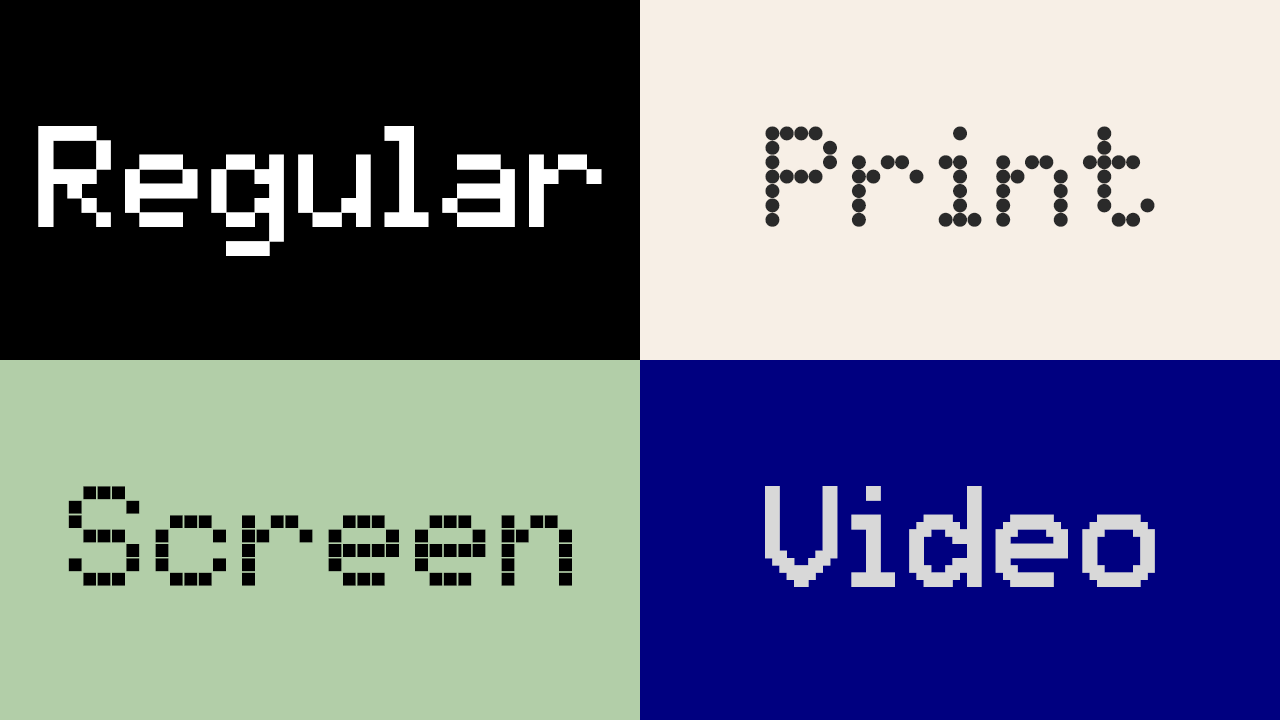
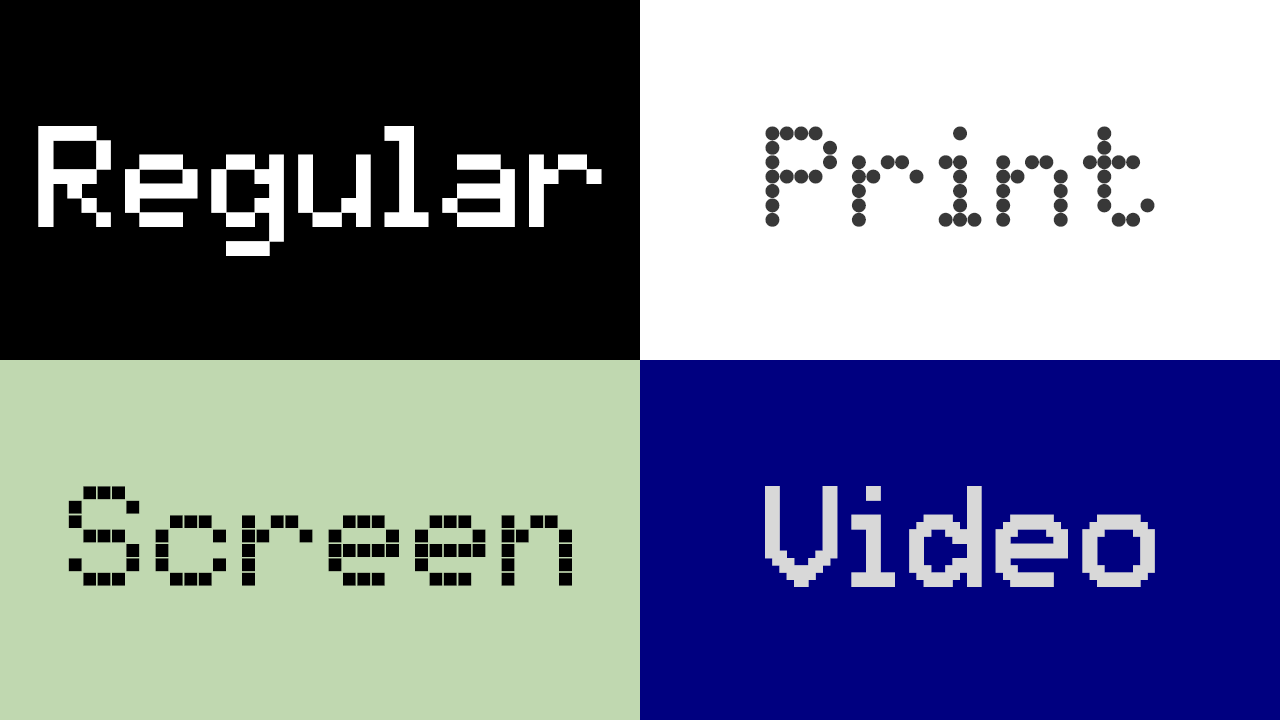
Generate new sample images

Changed region(s): [[0.5, 0.0, 1.0, 0.5194]]

diff --git a/documentation/image2.py b/documentation/image2.py
@@ -1,0 +1,155 @@
+# This script is meant to be run from the root level
+# of your font's git repository. For example, from a Unix terminal:
+# $ git clone my-font
+# $ cd my-font
+# $ python3 documentation/image1.py --output documentation/image1.png
+
+# Import moduels from external python packages: https://pypi.org/
+from drawbot_skia.drawbot import *
+from fontTools.ttLib import TTFont
+from fontTools.misc.fixedTools import floatToFixedToStr
+
+# Import moduels from the Python Standard Library: https://docs.python.org/3/library/
+import subprocess
+import sys
+import argparse
+
+# Constants, these are the main "settings" for the image
+WIDTH, HEIGHT, MARGIN, FRAMES = 960, 960, 64, 1
+FONT_PATH = "fonts/otf/LibreDotMatrix-Regular.otf"
+FONT_LICENSE = "OFL v1.1"
+AUXILIARY_FONT = "Open Sans"
+AUXILIARY_FONT_SIZE = 22
+BIG_TEXT = "Aa"
+BIG_TEXT_FONT_SIZE = 80
+BIG_TEXT_SIDE_MARGIN = WIDTH // 2
+BIG_TEXT_BOTTOM_MARGIN = MARGIN * 3.5
+BIG_TEXT_INTERLINE = MARGIN * 1.5
+GRID_VIEW = False # Change this to "True" for a grid overlay
+
+# Handel the "--output" flag
+# For example: $ python3 documentation/image1.py --output documentation/image1.png
+parser = argparse.ArgumentParser()
+parser.add_argument("--output", metavar="PNG", help="where to write the PNG file")
+args = parser.parse_args()
+
+
+
+# Constants that are worked out dynamically
+MY_URL = subprocess.check_output("git remote get-url origin", shell=True).decode()
+MY_HASH = subprocess.check_output("git rev-parse --short HEAD", shell=True).decode()
+
+
+
+# Draws a grid
+def grid():
+	stroke(1, 0, 0, 0.75)
+	strokeWidth(2)
+	STEP_X, STEP_Y = 0, 0
+	INCREMENT_X, INCREMENT_Y = MARGIN / 2, MARGIN / 2
+	rect(MARGIN, MARGIN, WIDTH - (MARGIN * 2), HEIGHT - (MARGIN * 2))
+	for x in range(29):
+		polygon((MARGIN + STEP_X, MARGIN), (MARGIN + STEP_X, HEIGHT - MARGIN))
+		STEP_X += INCREMENT_X
+	for y in range(29):
+		polygon((MARGIN, MARGIN + STEP_Y), (WIDTH - MARGIN, MARGIN + STEP_Y))
+		STEP_Y += INCREMENT_Y
+	polygon((WIDTH / 2, 0), (WIDTH / 2, HEIGHT))
+	polygon((0, HEIGHT / 2), (WIDTH, HEIGHT / 2))
+
+
+# Remap input range to VF axis range
+# This is useful for animation
+# (E.g. sinewave(-1,1) to wght(100,900))
+def remap(value, inputMin, inputMax, outputMin, outputMax):
+	inputSpan = inputMax - inputMin  # FIND INPUT RANGE SPAN
+	outputSpan = outputMax - outputMin  # FIND OUTPUT RANGE SPAN
+	valueScaled = float(value - inputMin) / float(inputSpan)
+	return outputMin + (valueScaled * outputSpan)
+
+
+# Draw the page/frame and a grid if "GRID_VIEW" is set to "True"
+def draw_background():
+	newPage(WIDTH, HEIGHT)
+	fill(1)
+	rect(-2, -2, WIDTH + 2, HEIGHT + 2)
+	if GRID_VIEW:
+		grid()
+	else:
+		pass
+
+
+# Draw main text
+def draw_main_text():
+	fill(0)
+	stroke(None)
+	font(FONT_PATH)
+	fontSize(BIG_TEXT_FONT_SIZE)
+	# Adjust this line to center main text manually.
+	# TODO: This should be done automatically when drawbot-skia
+	# has support for textBox() and FormattedString
+	#text(BIG_TEXT, ((WIDTH / 2) - MARGIN * 4.75, (HEIGHT / 2) - MARGIN * 2.5))
+	text("ABCDEFGHIJKLM", (BIG_TEXT_SIDE_MARGIN, BIG_TEXT_BOTTOM_MARGIN + BIG_TEXT_INTERLINE*5), "center")
+	text("NOPQRSTUVWXYZ", (BIG_TEXT_SIDE_MARGIN, BIG_TEXT_BOTTOM_MARGIN + BIG_TEXT_INTERLINE*4), "center")
+	text("abcdefghijklm", (BIG_TEXT_SIDE_MARGIN, BIG_TEXT_BOTTOM_MARGIN + BIG_TEXT_INTERLINE*3), "center")
+	text("nopqrstuvwxyz", (BIG_TEXT_SIDE_MARGIN, BIG_TEXT_BOTTOM_MARGIN + BIG_TEXT_INTERLINE*2), "center")
+	text("0123456789,.!?-/", (BIG_TEXT_SIDE_MARGIN, BIG_TEXT_BOTTOM_MARGIN + BIG_TEXT_INTERLINE*1), "center")
+	text("`~@#$%^&*()[]{}", (BIG_TEXT_SIDE_MARGIN, BIG_TEXT_BOTTOM_MARGIN), "center")
+
+# Divider lines
+def draw_divider_lines():
+	stroke(0.5)
+	strokeWidth(2)
+	lineCap("round")
+	line((MARGIN, HEIGHT - MARGIN), (WIDTH - MARGIN, HEIGHT - MARGIN))
+	line((MARGIN, MARGIN + (MARGIN / 2)), (WIDTH - MARGIN, MARGIN + (MARGIN / 2)))
+	stroke(None)
+
+
+# Draw text describing the font and it's git status & repo URL
+def draw_auxiliary_text():
+	# Load the font with the parts of fonttools that are imported with the line:
+	# from fontTools.ttLib import TTFont
+	# Docs Link: https://fonttools.readthedocs.io/en/latest/ttLib/ttFont.html
+	ttFont = TTFont(FONT_PATH)
+	# FONT_NAME = ttFont["name"].getDebugName(4)
+	FONT_NAME = ttFont["name"].getBestFamilyName()
+	FONT_VERSION = "v%s" % floatToFixedToStr(ttFont["head"].fontRevision, 16)
+	# Setup
+	fill(0.5)
+	font(AUXILIARY_FONT)
+	fontSize(AUXILIARY_FONT_SIZE)
+	POS_TOP_LEFT = (MARGIN, HEIGHT - MARGIN * 1.5)
+	POS_TOP_RIGHT = (WIDTH - MARGIN, HEIGHT - MARGIN * 1.5)
+	POS_BOTTOM_LEFT = (MARGIN, MARGIN)
+	POS_BOTTOM_RIGHT = (WIDTH - MARGIN * 0.95, MARGIN)
+	URL_AND_HASH = MY_URL + "at commit " + MY_HASH
+	URL_AND_HASH = URL_AND_HASH.replace("\n", " ")
+	# Draw Text
+	text(FONT_NAME, POS_TOP_LEFT, align="left")
+	text(FONT_VERSION, POS_TOP_RIGHT, align="right")
+	text(URL_AND_HASH, POS_BOTTOM_LEFT, align="left")
+	text(FONT_LICENSE, POS_BOTTOM_RIGHT, align="right")
+
+
+def make_image():
+	draw_background()
+	draw_main_text()
+	draw_divider_lines()
+	draw_auxiliary_text()
+
+# Build and save the image
+if __name__ == "__main__":
+	FONT_PATH = "fonts/otf/LibreDotMatrix-Regular.otf"
+	make_image()
+	FONT_PATH = "fonts/otf/LibreDotMatrixPrint-Regular.otf"
+	make_image()
+	FONT_PATH = "fonts/otf/LibreDotMatrixScreen-Regular.otf"
+	make_image()
+	FONT_PATH = "fonts/otf/LibreDotMatrixVideo-Regular.otf"
+	make_image()
+	# Save output, using the "--output" flag location
+	saveImage("documentation/sample.png")
+	# Print done in the terminal
+	print("DrawBot: Done")
+	

diff --git a/documentation/image1.py b/documentation/image1.py
@@ -78,9 +78,9 @@ def draw_background():
     # rect(-2, -2, WIDTH + 2, HEIGHT + 2)
     fill(0)
     rect(0, HEIGHT // 2, WIDTH // 2, HEIGHT // 2)
-    fill(247/255, 239/255, 230/255)
+    fill(1)
     rect(WIDTH // 2, HEIGHT // 2, WIDTH // 2, HEIGHT // 2)
-    fill(178/255, 206/255, 168/255)
+    fill(192/255, 216/255, 176/255)
     rect(0, 0, WIDTH // 2, HEIGHT // 2)
     fill(0, 0, 128/255)
     rect(WIDTH // 2, 0, WIDTH // 2, HEIGHT // 2)
@@ -107,7 +107,7 @@ def draw_main_text():
     fill(1)
     text("Regular", (BIG_TEXT_SIDE_MARGIN, BIG_TEXT_BOTTOM_MARGIN + HEIGHT // 2), align="center")
     font("fonts/otf/LibreDotMatrixPrint-Regular.otf")
-    fill(40/240)
+    fill(56/255)
     text("Print", (BIG_TEXT_SIDE_MARGIN + WIDTH // 2, BIG_TEXT_BOTTOM_MARGIN + HEIGHT // 2), align="center")
     font("fonts/otf/LibreDotMatrixScreen-Regular.otf")
     fill(0)

diff --git a/README.md b/README.md
@@ -19,7 +19,11 @@ This is set of pixelated, retro-style fonts based on the classic 5&times;7 dot m
 - **Screen** is a similar effect to Print, but uses square dots instead. It matches the look of the "character LCDs" seen in many devices, as well as some light-up LED displays.
 - **Video** is an interpolated version of Regular. It resembles the on-screen displays of VCRs, Teletext, camcorders and the like; harking back to the early days of computerisation in television and home video.
 
-![Sample Image](documentation/4styles.png)
+![Four Styles](documentation/4styles.png)
+![Sample 1](documentation/sample_0.png)
+![Sample 2](documentation/sample_1.png)
+![Sample 3](documentation/sample_2.png)
+![Sample 4](documentation/sample_3.png)
 
 ## Design philosophy
 
